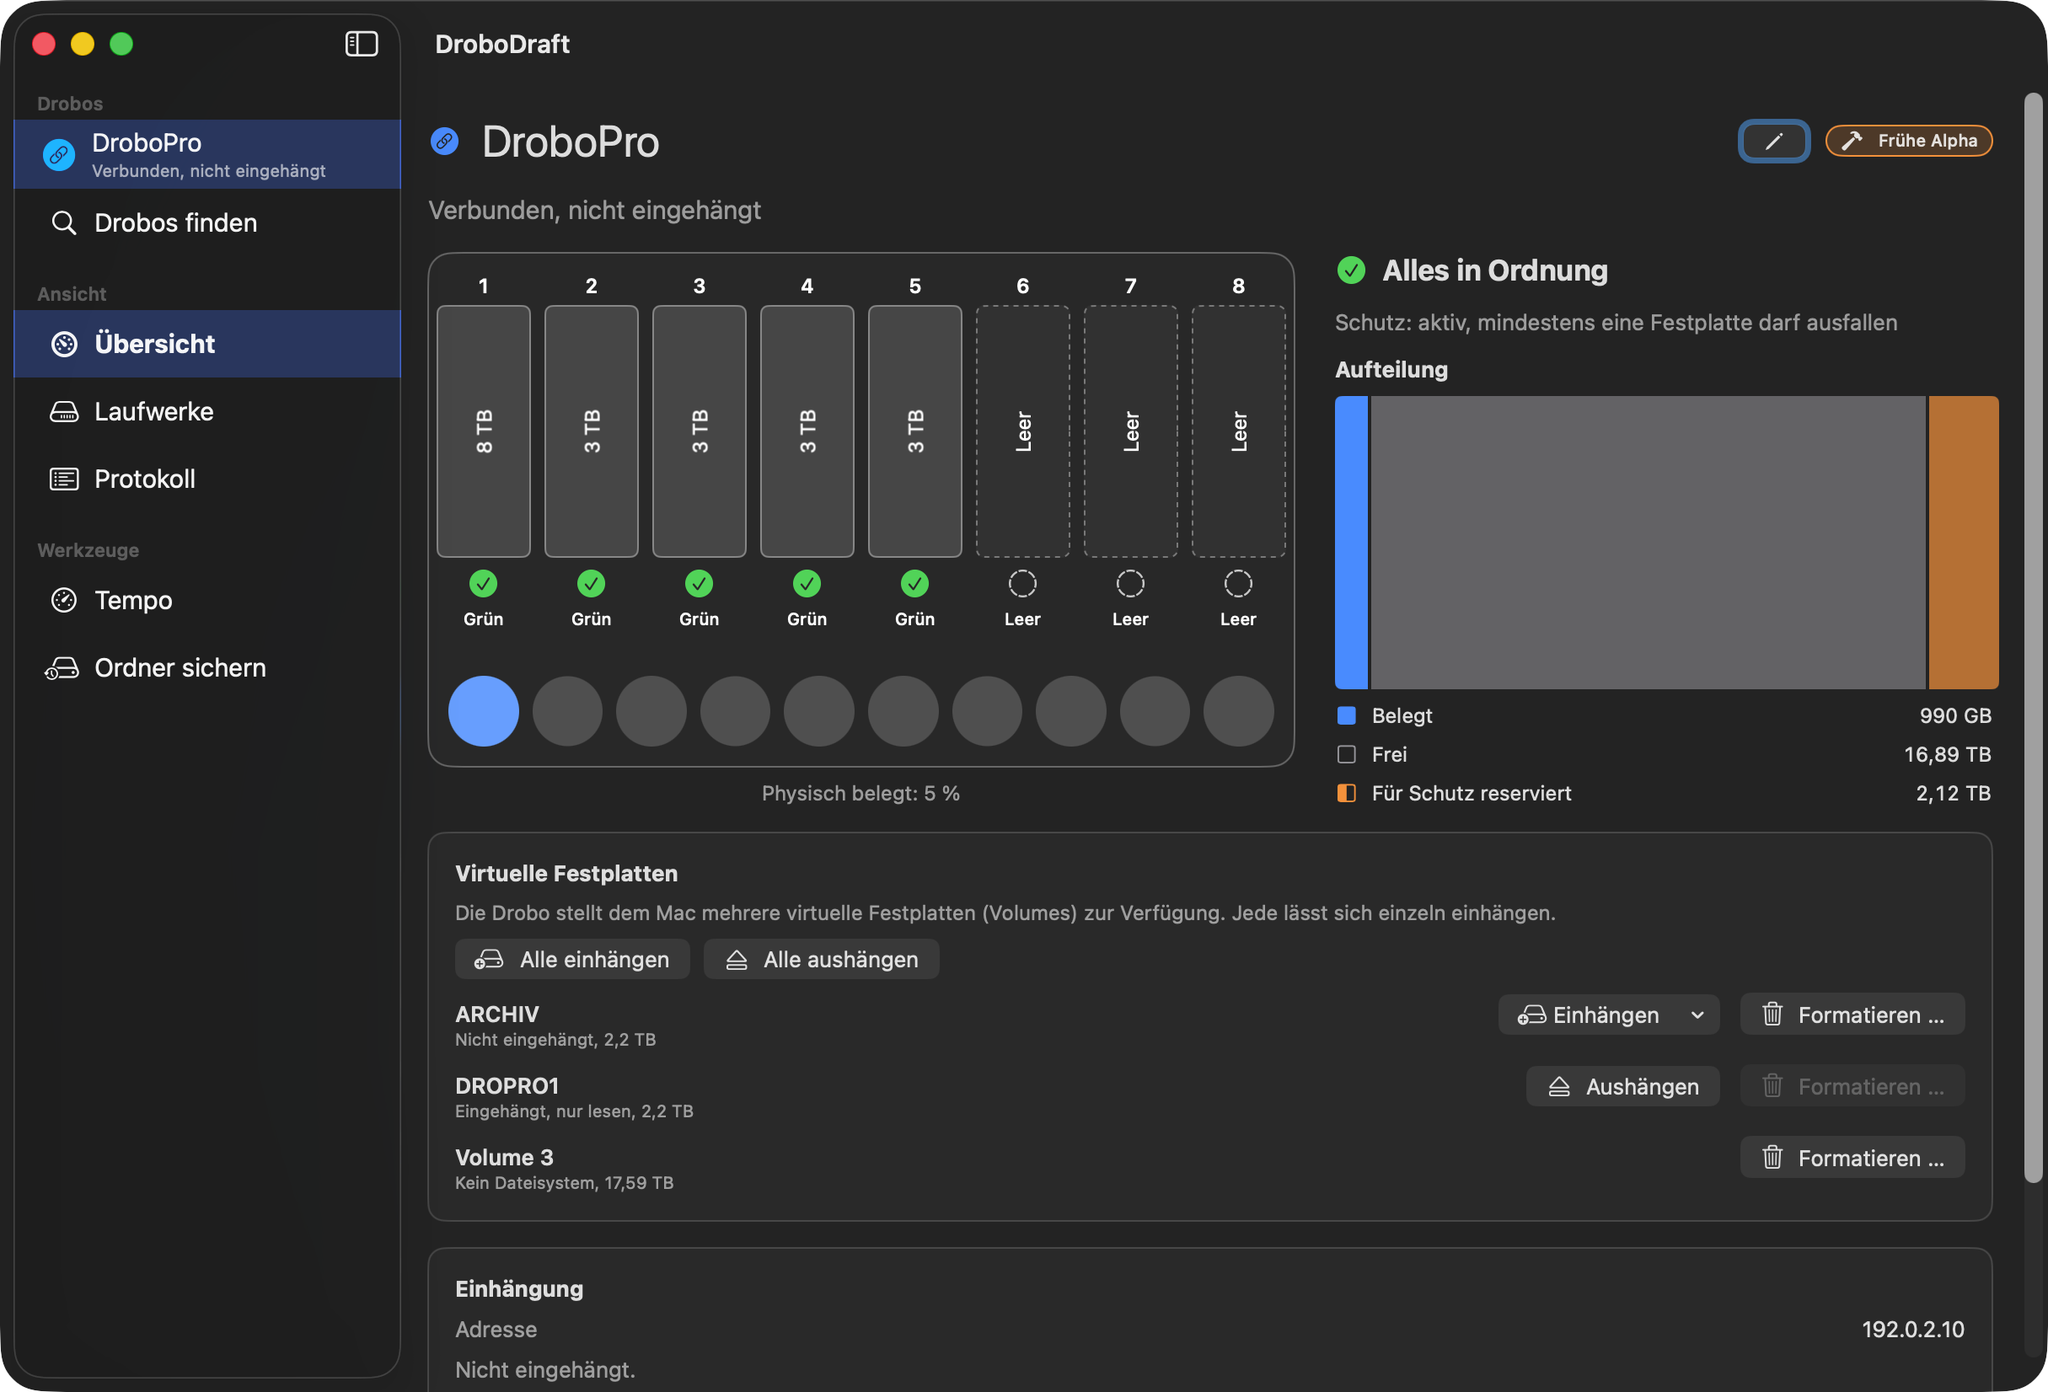
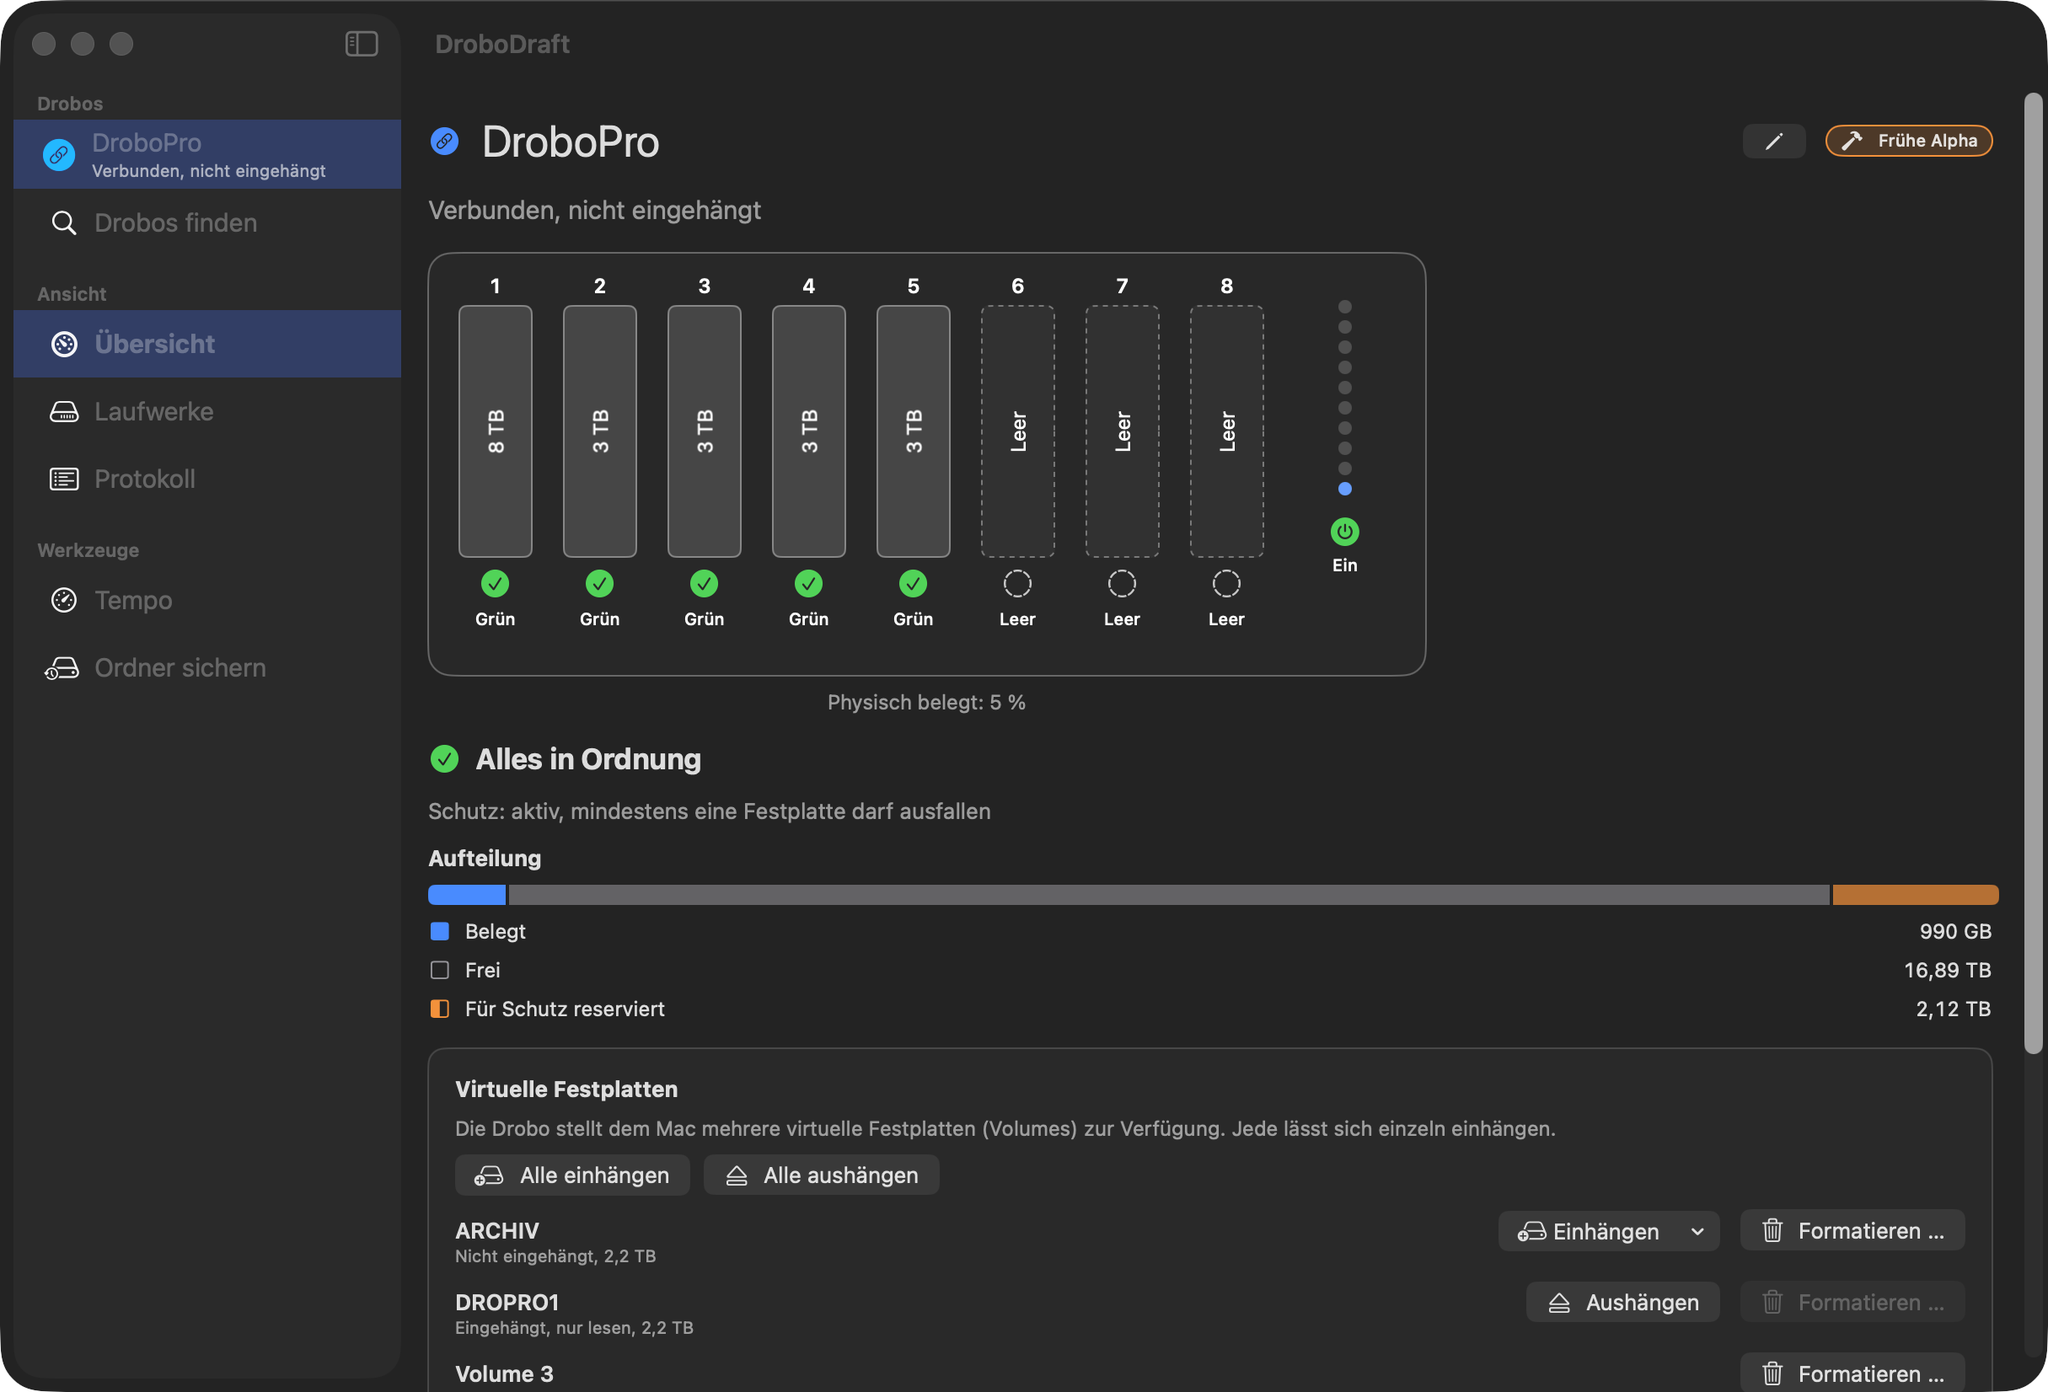
feat(app): DroboPro picture with vertical fill LEDs and power lamp; restore fixed size of drawn parts; hidden test runs
Operator (photo of the original): blue dots vertical on the right, power LED below. LEDs fill bottom to
top (assumption, uncalibrated), smaller via ScaledMetric token; power lamp is derived from session/
status (On / Off or unreachable / Not responding, symbol + text), never read from an unknown page.
Also fixes my own regression from the token change: instrument, split bar and LEDs had slipped to
minWidth/minHeight and stretched (greedy shapes); they are exact again via tokens.
Test runs set DROBO_DEMO_HINTEN so no demo window stays on the operator's screen.

diff --git a/fskit_probe/App/GeraetBild.swift b/fskit_probe/App/GeraetBild.swift
@@ -20,6 +20,7 @@ struct DroboGeraet: View {
     let h: DroboStatus
     let g: Gesamtzustand
     var mitFehler = true
+    var betrieb: Betrieb = .aus
     @State private var offen: Int?
 
     /// 5 Schaechte (Drobo 5C) oder 8 (DroboPro); die Statusseite nennt die Zahl, sonst das Modell.
@@ -34,16 +35,20 @@ struct DroboGeraet: View {
                     SchachtFeld(nr: n, s: h.schaechte.first { $0.nr == n }, mitFehler: mitFehler, lage: lage, offen: $offen)
                 }
             } else {
-                HStack(alignment: .top, spacing: Abstand.s) {   // Reihenfolge = Schachtnummer, auch fuer VoiceOver
+                HStack(alignment: .top, spacing: Mass.schachtLuecke) {   // Reihenfolge = Schachtnummer, auch fuer VoiceOver
                     ForEach(1...anzahl, id: \.self) { n in
                         SchachtFeld(nr: n, s: h.schaechte.first { $0.nr == n }, mitFehler: mitFehler, lage: lage, offen: $offen)
                     }
+                    VStack(spacing: Abstand.m) {   // rechts: Fuellstand senkrecht, darunter die Betriebslampe
+                        FuellLeiste(g: g, senkrecht: true).padding(.top, Abstand.l)
+                        BetriebsLampe(b: betrieb)
+                    }.frame(width: Mass.ledSpalte)
                 }
             }
-            FuellLeiste(g: g).padding(.top, Abstand.xs)
+            if lage == .gestapelt { FuellLeiste(g: g).padding(.top, Abstand.xs) }
         }
         .padding(Abstand.m)
-        .frame(width: lage == .gestapelt ? Mass.geraetStapelBreite : CGFloat(anzahl) * Mass.schachtBreite + Mass.schachtLuecke * CGFloat(anzahl - 1) + Mass.geraetRand)
+        .frame(width: lage == .gestapelt ? Mass.geraetStapelBreite : CGFloat(anzahl) * (Mass.schachtBreite + Mass.schachtLuecke) + Mass.ledSpalte + Mass.geraetRand)
         .background(RoundedRectangle(cornerRadius: Radius.geraet).fill(Farbe.geraetGehaeuse))
         .overlay(RoundedRectangle(cornerRadius: Radius.geraet).stroke(Color.white.opacity(0.3), lineWidth: 1))
         .environment(\.colorScheme, .dark)   // Geraet bleibt dunkel, auch im hellen Modus; Systemfarben passen sich an
@@ -82,8 +87,8 @@ struct SchachtFeld: View {
         Button { offen = nr } label: {
             if lage == .gestapelt {
                 HStack(spacing: Abstand.s) {
-                    Text("\(nr)").font(.callout.bold().monospacedDigit()).foregroundStyle(.white).frame(minWidth: Mass.schachtNummerBreite)
-                    platte.frame(minHeight: Mass.plateStapelHoehe)
+                    Text("\(nr)").font(.callout.bold().monospacedDigit()).foregroundStyle(.white).frame(width: Mass.schachtNummerBreite)
+                    platte.frame(height: Mass.plateStapelHoehe)
                     HStack(spacing: Abstand.xs) {
                         Lampe(f: farbe)
                         Text(farbe.wortText).font(.caption).foregroundStyle(.white).fixedSize(horizontal: false, vertical: true)
@@ -93,11 +98,11 @@ struct SchachtFeld: View {
             } else {
                 VStack(spacing: Abstand.xs) {
                     Text("\(nr)").font(.callout.bold().monospacedDigit()).foregroundStyle(.white)
-                    platte.frame(minWidth: Mass.plateSenkrechtBreite, minHeight: Mass.plateSenkrechtHoehe).overlay(Text(kapText).font(.callout).monospacedDigit().foregroundStyle(.white).fixedSize().rotationEffect(.degrees(-90)))
+                    platte.frame(width: Mass.plateSenkrechtBreite, height: Mass.plateSenkrechtHoehe).overlay(Text(kapText).font(.callout).monospacedDigit().foregroundStyle(.white).fixedSize().rotationEffect(.degrees(-90)))
                     Lampe(f: farbe)   // Spalte = Einschub = Lampe = Wort: alle auf derselben Mittelachse
-                    Text(farbe.wortText).font(.caption2).foregroundStyle(.white).multilineTextAlignment(.center).frame(minWidth: Mass.schachtBreite, minHeight: Mass.lampeWortHoehe, alignment: .top)
+                    Text(farbe.wortText).font(.caption2).foregroundStyle(.white).multilineTextAlignment(.center).frame(width: Mass.schachtBreite, height: Mass.lampeWortHoehe, alignment: .top)
                 }
-                .frame(minWidth: Mass.schachtBreite)
+                .frame(width: Mass.schachtBreite)
                 .contentShape(Rectangle())
             }
         }
@@ -157,20 +162,52 @@ struct Lampe: View {
                 }
             } else { Image(systemName: f.symbol).foregroundStyle(f.farbe == .secondary ? Color.white.opacity(0.75) : f.farbe) }
         }
-        .imageScale(.large).frame(minWidth: Mass.lampe, minHeight: Mass.lampe).accessibilityHidden(true)
+        .imageScale(.large).frame(width: Mass.lampe, height: Mass.lampe).accessibilityHidden(true)
+    }
+}
+
+/// Betriebslampe (nur DroboPro-Bild): Farbe NICHT vom Geraet gelesen (keine Statusseite bekannt; unbekannte Seiten wie 0x36 werden nicht abgefragt, sie haengen die DroboPro).
+/// Abgeleitet aus Sitzung und Status: Ein = erreichbar und Status gelesen, Aus = nicht erreichbar, Reagiert nicht = Bremse "reagiert nicht".
+enum Betrieb {
+    case ein, aus, haengt
+    var wort: String { switch self { case .ein: return String(localized: "Ein"); case .aus: return String(localized: "Aus oder nicht erreichbar"); case .haengt: return String(localized: "Reagiert nicht") } }
+    var symbol: String { switch self { case .ein: return "power.circle.fill"; case .aus: return "power.circle"; case .haengt: return "exclamationmark.octagon.fill" } }
+    var farbe: Color { switch self { case .ein: return .green; case .aus: return .secondary; case .haengt: return .red } }
+}
+
+struct BetriebsLampe: View {
+    let b: Betrieb
+    var body: some View {
+        VStack(spacing: Abstand.xs) {
+            Image(systemName: b.symbol).foregroundStyle(b.farbe).font(.title2).accessibilityHidden(true)
+            Text(b.wort).font(.caption2).foregroundStyle(.white).multilineTextAlignment(.center).fixedSize(horizontal: false, vertical: true)
+        }
+        .frame(width: Mass.ledSpalte)
+        .accessibilityElement(children: .ignore)
+        .accessibilityLabel(String(localized: "Betrieb: \(b.wort)"))
     }
 }
 
 /// Blaue Fuellstands-LEDs wie am Geraet: zehn runde Punkte, je 10 % einer, ab > 0 % mindestens einer (Kern: `ledAnzahl`). VoiceOver: "Physisch belegt: N %".
+/// Waagerechte Reihe (5C) oder senkrechte Spalte (DroboPro, rechts neben den Schaechten, fuellt von UNTEN nach OBEN: Annahme, am Geraet UNGEEICHT).
 struct FuellLeiste: View {
     let g: Gesamtzustand
+    var senkrecht = false
+    @ScaledMetric(relativeTo: .caption) private var punkt = Mass.ledPunkt
+    @ScaledMetric(relativeTo: .caption) private var punktSenkrecht = Mass.ledPunktSenkrecht
+
+    func led(_ i: Int, _ d: CGFloat) -> some View {
+        Circle().fill(i < g.ledAnzahl ? Farbe.fuellLed : Color.white.opacity(0.18)).frame(width: d, height: d)
+    }
+
     var body: some View {
-        HStack(spacing: Abstand.s) {
-            ForEach(0..<10, id: \.self) { i in
-                Circle().fill(i < g.ledAnzahl ? Farbe.fuellLed : Color.white.opacity(0.18)).frame(minWidth: Mass.ledPunkt, minHeight: Mass.ledPunkt)
+        Group {
+            if senkrecht {
+                VStack(spacing: Mass.ledLuecke) { ForEach((0..<10).reversed(), id: \.self) { led($0, punktSenkrecht) } }   // oberste LED = Nummer 10
+            } else {
+                HStack(spacing: Abstand.s) { ForEach(0..<10, id: \.self) { led($0, punkt) } }.frame(maxWidth: .infinity)
             }
         }
-        .frame(maxWidth: .infinity)
         .accessibilityElement(children: .ignore)
         .accessibilityLabel(g.belegtProzent.map { String(localized: "Physisch belegt: \($0) %") } ?? String(localized: "Füllstand unbekannt"))
     }

diff --git a/fskit_probe/App/Uebersicht.swift b/fskit_probe/App/Uebersicht.swift
@@ -34,7 +34,7 @@ struct UebersichtAnsicht: View {
                     }
                     if let h = a.hw, let g = a.hwZustand {
                         let geraet = VStack(spacing: Abstand.s) {
-                            DroboGeraet(h: h, g: g, mitFehler: a.eintrag.netz == nil)
+                            DroboGeraet(h: h, g: g, mitFehler: a.eintrag.netz == nil, betrieb: a.bremse == .reagiertNicht ? .haengt : (a.verbunden && h.ok && a.netzFehler == nil ? .ein : .aus))
                             if let p = g.belegtProzent { Text("Physisch belegt: \(p) %").font(.callout).foregroundStyle(.secondary) }
                             #if DEBUG
                             // Demo: Popover laesst sich ohne Klick nicht fotografieren -> Einzelheiten des Schachts DROBO_DEMO_SCHACHT stehen darunter
@@ -125,7 +125,7 @@ struct Aufteilung: View {
                     Rectangle().fill(Color.gray.opacity(0.55)).frame(width: p.size.width * Double(g.frei) / summe)
                     Rectangle().fill(Color.orange.opacity(0.7)).frame(width: p.size.width * Double(g.reserviert) / summe)
                 }.clipShape(RoundedRectangle(cornerRadius: Radius.rechteck))
-            }.frame(minHeight: Mass.aufteilungHoehe).accessibilityHidden(true)
+            }.frame(height: Mass.aufteilungHoehe).accessibilityHidden(true)
             zeile("Belegt", g.belegt, Color.blue, "square.fill")
             zeile("Frei", g.frei, Color.gray, "square")
             if g.reserviert > 0 { zeile("Für Schutz reserviert", g.reserviert, Color.orange, "square.lefthalf.filled") }

diff --git a/fskit_probe/App/TempoAnsicht.swift b/fskit_probe/App/TempoAnsicht.swift
@@ -36,8 +36,8 @@ struct Rundinstrument: View {
                     Text("MB/s").font(.callout).foregroundStyle(.secondary)
                 }
             }
-            .frame(minWidth: instrument, minHeight: instrument)
-            HStack { Text("0"); Spacer(); Text(String(format: "%.0f", skala)) }.font(.caption.monospacedDigit()).foregroundStyle(.secondary).frame(minWidth: Mass.instrumentSkala)
+            .frame(width: instrument, height: instrument)
+            HStack { Text("0"); Spacer(); Text(String(format: "%.0f", skala)) }.font(.caption.monospacedDigit()).foregroundStyle(.secondary).frame(width: Mass.instrumentSkala)
             Text(titel).font(.headline)
             if let s = stand { Text("Gemessen: \(zeitLesbar(s))").font(.caption).foregroundStyle(.secondary) }
         }

diff --git a/fskit_probe/App/Modell.swift b/fskit_probe/App/Modell.swift
@@ -179,6 +179,7 @@ final class DroboModell: ObservableObject {
     func starten() {
         #if DEBUG
         Steuerung.startenWennGewuenscht(self)
+        if ProcessInfo.processInfo.environment["DROBO_DEMO_HINTEN"] != nil { DispatchQueue.main.asyncAfter(deadline: .now() + 0.2) { NSApp.windows.forEach { $0.orderOut(nil) } } }
         if let b = DemoDaten.blatt { DispatchQueue.main.asyncAfter(deadline: .now() + 1) { self.blatt = b } }
         #endif
         anmeldeStart = SMAppService.mainApp.status == .enabled

diff --git a/fskit_probe/App/Mass.swift b/fskit_probe/App/Mass.swift
@@ -55,6 +55,10 @@ enum Mass {
     static let lampe: CGFloat = 22
     static let lampeWortHoehe: CGFloat = 28
     static let ledPunkt: CGFloat = 12
+    /// Senkrechte Fuellstands-LEDs (DroboPro): kleiner, zehn Stueck uebereinander.
+    static let ledPunktSenkrecht: CGFloat = 8
+    static let ledLuecke: CGFloat = 4
+    static let ledSpalte: CGFloat = 72
     static let aufteilungHoehe: CGFloat = 12
     /// Rundinstrument (Tempo).
     static let instrument: CGFloat = 190

diff --git a/fskit_probe/App/DroboApp.swift b/fskit_probe/App/DroboApp.swift
@@ -7,6 +7,10 @@ struct DroboApp: App {
 
     init() {
         if kopflauf() { exit(0) }
+        #if DEBUG
+        // Testlaeufe ohne sichtbares Fenster: kein Dock-Symbol, Fenster werden in Modell.starten() ausgeblendet (Steuerung per Text braucht keins)
+        if ProcessInfo.processInfo.environment["DROBO_DEMO_HINTEN"] != nil { NSApplication.shared.setActivationPolicy(.accessory) }
+        #endif
     }
 
     var body: some Scene {

diff --git a/fskit_probe/tools/aktionen_test.py b/fskit_probe/tools/aktionen_test.py
@@ -22,7 +22,7 @@ def frei_port():
 def start(demo="beide", daten=None, extra=None):
     daten = daten or tempfile.mkdtemp(prefix="drobo_aktionen_", dir=os.environ.get("TMPDIR", "/private/tmp"))
     port = frei_port()
-    env = dict(os.environ, DROBO_DEMO=demo, DROBO_DATEN=daten, DROBO_STEUERUNG=str(port), **(extra or {}))
+    env = dict(os.environ, DROBO_DEMO_HINTEN="1", DROBO_DEMO=demo, DROBO_DATEN=daten, DROBO_STEUERUNG=str(port), **(extra or {}))
     p = subprocess.Popen([APP], env=env, stdout=subprocess.DEVNULL, stderr=subprocess.DEVNULL)
     for _ in range(60):
         try:
@@ -69,7 +69,7 @@ def blatt_test():
         post("/aktion?id=sicherungsortWaehlen&arg=/private/tmp/drobo_aktionen_ziel")
         post("/aktion?id=einhaengenSchreiben"); z = get("/zustand")
         pruefe(z["blatt_art"] == "voll:nichtErprobt" and len(z["bestaetigt"]) == 1, f"Kabel: nicht erprobt = volles Blatt trotz frueherer Bestaetigung ({z['blatt_art']})")
-        post("/uhr?versatz=16"); r = post("/bestaetigen"); pruefe(not r["ok"], f"ohne Sicherungs-Kaestchen abgelehnt: {r['fehler']}")
+        post("/uhr?versatz=16"); z2 = get("/zustand"); r = post("/bestaetigen"); pruefe(not r["ok"], f"ohne Sicherungs-Kaestchen abgelehnt: {r['fehler']} (vorher: art={z2['blatt_art']} gesichert={z2['gesichert']} blatt={z2['blatt']} auswahl={z2['auswahl']})")
         post("/gesichert?an=1"); pruefe(post("/bestaetigen")["ok"], "mit Kaestchen nach der Sperre bestaetigt")
     finally: beenden(p)
 

diff --git a/docs/PLAN_DESIGN_UEBERSICHT_2026-10-17.md b/docs/PLAN_DESIGN_UEBERSICHT_2026-10-17.md
@@ -128,3 +128,20 @@ Formatieren zeigt zusätzlich Volume-Nummer, bisherigen Namen, Größe und Parti
 - Zustand wiederherstellen: gewählter Bereich und Drobo in `ansicht.json` im Datenordner.
 - Steuerung per Text: nur Debug-Bau, `DROBO_STEUERUNG=<port>` (127.0.0.1): `/aktionen`, `/menue` (echte Menüleiste), `/zustand`, `/aktion`, `/undo`, `/redo`, `/bild`. Test `fskit_probe/tools/aktionen_test.py`.
 - Grenze: Zeilen-Aktionen (je LUN einhängen, Hinzufügen je Fund) stehen im Menü nur für die Haupt-LUN bzw. den ersten Fund; die Zeilenknöpfe bleiben als Beschleuniger.
+
+### Gerätebild DroboPro (Lage „nebeneinander“): Füllstand-LEDs rechts, darunter Betriebslampe (2026-10-17T10:40:00+0200)
+Betreiber (nach Foto vom Originalgerät): blaue Punkte rechts senkrecht, darunter die Power-LED. 5C (gestapelt) bleibt waagerechte Reihe unten.
+```
+┌──────────────────────────────────────────────────────┐
+│  1    2    3    4    5    6    7    8        ·  10   │   LEDs: 10 Stück, klein (Token),
+│ ┌─┐  ┌─┐  ┌─┐  ┌─┐  ┌─┐  ┌┄┐  ┌┄┐  ┌┄┐       ·  9   │   füllen von UNTEN nach oben
+│ │8│  │3│  │3│  │3│  │3│  │L│  │L│  │L│       ●  …   │   (Annahme, am Gerät UNGEEICHT)
+│ │T│  │T│  │T│  │T│  │T│  │e│  │e│  │e│       ●  2   │
+│ │B│  │B│  │B│  │B│  │B│  │e│  │e│  │e│       ●  1   │
+│ └─┘  └─┘  └─┘  └─┘  └─┘  └┄┘  └┄┘  └┄┘                │
+│  ✓    ✓    ✓    ✓    ✓    ○    ○    ○        ⏻       │   Betriebslampe darunter: Symbol + Text
+│ Grün Grün Grün Grün Grün Leer Leer Leer      Ein     │   Ein (grün) | Aus oder nicht erreichbar (grau)
+└──────────────────────────────────────────────────────┘                  | Reagiert nicht (rot, Hänger)
+```
+Betriebslampe: Farbe NICHT vom Gerät gelesen (keine Statusseite bekannt, 0x36 wird nicht abgefragt: unbekannte Seiten hängen die DroboPro). Abgeleitet aus Sitzung/Status: Ein = erreichbar und Status gelesen, Aus = nicht erreichbar, Reagiert nicht = Bremse „reagiert nicht“. VoiceOver: „Betrieb: Ein“. Füllstand weiter als ein Element „Physisch belegt: N %“.
+Korrektur in derselben Änderung: Beim Umstellen auf Token waren Rundinstrument, Aufteilungsbalken und LEDs von fester Größe auf `minWidth/minHeight` gerutscht und dehnten sich (greedy Formen); sie bekommen wieder feste Größe über Token/`@ScaledMetric`.
